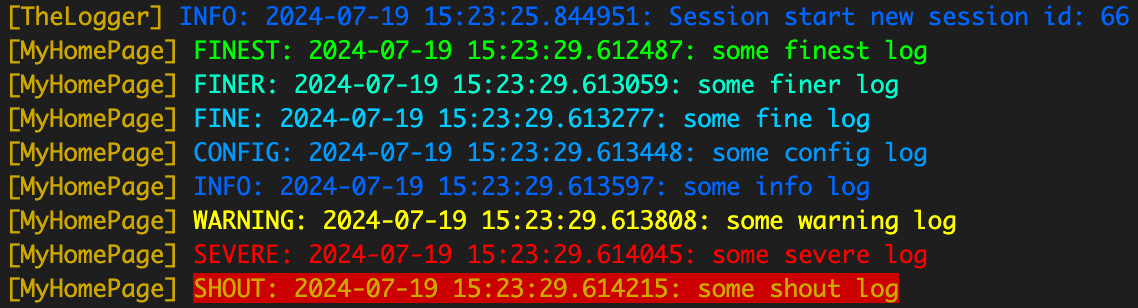
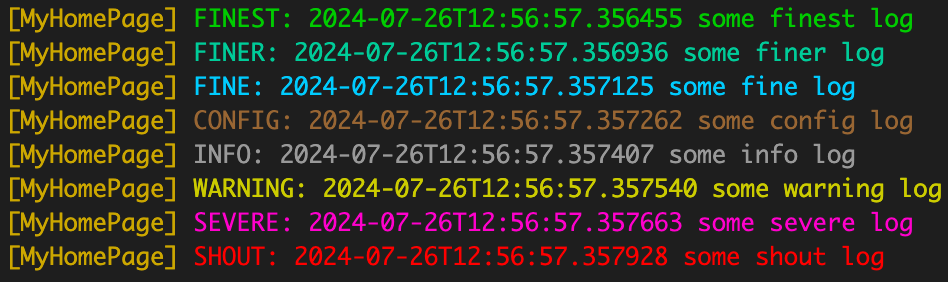
refactor: change console printer formatting (#18)
* refactor: change console printer formatting

* chore: bump version

* chore: change screenshot

diff --git a/test/console_logger_test.dart b/test/console_logger_test.dart
@@ -24,8 +24,9 @@ void main() {
   test('TheLogger console tests', () async {
     final logs = <Map<String, dynamic>>[];
 
-    void consoleLoggerCallback(
-      String message, {
+    void consoleLoggerCallback({
+      required String formattedRecord,
+      required String message,
       DateTime? time,
       int? sequenceNumber,
       int level = 0,
@@ -34,9 +35,9 @@ void main() {
       Object? error,
       StackTrace? stackTrace,
     }) {
-      if (!message.contains('hot-reload')) {
+      if (!formattedRecord.contains('hot-reload')) {
         logs.add({
-          'message': message,
+          'formattedRecord': formattedRecord,
           'level': level,
           'name': name,
         });
@@ -63,54 +64,54 @@ void main() {
 
     expect(logs, hasLength(9));
 
-    expect(logs[0]['message'], contains('Session start'));
+    expect(logs[0]['formattedRecord'], contains('Session start'));
     expect(logs[0]['name'], contains('TheLogger'));
 
-    expect(logs[1]['message'], contains(ConsoleColor.green0.value));
-    expect(logs[1]['message'], contains('some finest log'));
-    expect(logs[1]['message'], contains(ConsoleColor.reset.value));
+    expect(logs[1]['formattedRecord'], contains(ConsoleColor.green0.value));
+    expect(logs[1]['formattedRecord'], contains('some finest log'));
+    expect(logs[1]['formattedRecord'], contains(ConsoleColor.reset.value));
     expect(logs[1]['name'], contains('TestLogger'));
     expect(logs[1]['level'], Level.FINEST.value);
 
-    expect(logs[2]['message'], contains(ConsoleColor.green1.value));
-    expect(logs[2]['message'], contains('some finer log'));
-    expect(logs[2]['message'], contains(ConsoleColor.reset.value));
+    expect(logs[2]['formattedRecord'], contains(ConsoleColor.green1.value));
+    expect(logs[2]['formattedRecord'], contains('some finer log'));
+    expect(logs[2]['formattedRecord'], contains(ConsoleColor.reset.value));
     expect(logs[2]['name'], contains('TestLogger'));
     expect(logs[2]['level'], Level.FINER.value);
 
-    expect(logs[3]['message'], contains(ConsoleColor.green2.value));
-    expect(logs[3]['message'], contains('some fine log'));
-    expect(logs[3]['message'], contains(ConsoleColor.reset.value));
+    expect(logs[3]['formattedRecord'], contains(ConsoleColor.green2.value));
+    expect(logs[3]['formattedRecord'], contains('some fine log'));
+    expect(logs[3]['formattedRecord'], contains(ConsoleColor.reset.value));
     expect(logs[3]['name'], contains('TestLogger'));
     expect(logs[3]['level'], Level.FINE.value);
 
-    expect(logs[4]['message'], contains(ConsoleColor.blue0.value));
-    expect(logs[4]['message'], contains('some config log'));
-    expect(logs[4]['message'], contains(ConsoleColor.reset.value));
+    expect(logs[4]['formattedRecord'], contains(ConsoleColor.blue0.value));
+    expect(logs[4]['formattedRecord'], contains('some config log'));
+    expect(logs[4]['formattedRecord'], contains(ConsoleColor.reset.value));
     expect(logs[4]['name'], contains('TestLogger'));
     expect(logs[4]['level'], Level.CONFIG.value);
 
-    expect(logs[5]['message'], contains(ConsoleColor.blue1.value));
-    expect(logs[5]['message'], contains('some info log'));
-    expect(logs[5]['message'], contains(ConsoleColor.reset.value));
+    expect(logs[5]['formattedRecord'], contains(ConsoleColor.blue1.value));
+    expect(logs[5]['formattedRecord'], contains('some info log'));
+    expect(logs[5]['formattedRecord'], contains(ConsoleColor.reset.value));
     expect(logs[5]['name'], contains('TestLogger'));
     expect(logs[5]['level'], Level.INFO.value);
 
-    expect(logs[6]['message'], contains(ConsoleColor.yellow0.value));
-    expect(logs[6]['message'], contains('some warning log'));
-    expect(logs[6]['message'], contains(ConsoleColor.reset.value));
+    expect(logs[6]['formattedRecord'], contains(ConsoleColor.yellow0.value));
+    expect(logs[6]['formattedRecord'], contains('some warning log'));
+    expect(logs[6]['formattedRecord'], contains(ConsoleColor.reset.value));
     expect(logs[6]['name'], contains('TestLogger'));
     expect(logs[6]['level'], Level.WARNING.value);
 
-    expect(logs[7]['message'], contains(ConsoleColor.red0.value));
-    expect(logs[7]['message'], contains('some severe log'));
-    expect(logs[7]['message'], contains(ConsoleColor.reset.value));
+    expect(logs[7]['formattedRecord'], contains(ConsoleColor.red0.value));
+    expect(logs[7]['formattedRecord'], contains('some severe log'));
+    expect(logs[7]['formattedRecord'], contains(ConsoleColor.reset.value));
     expect(logs[7]['name'], contains('TestLogger'));
     expect(logs[7]['level'], Level.SEVERE.value);
 
-    expect(logs[8]['message'], contains(ConsoleColor.redInverse.value));
-    expect(logs[8]['message'], contains('some shout log'));
-    expect(logs[8]['message'], contains(ConsoleColor.reset.value));
+    expect(logs[8]['formattedRecord'], contains(ConsoleColor.red1.value));
+    expect(logs[8]['formattedRecord'], contains('some shout log'));
+    expect(logs[8]['formattedRecord'], contains(ConsoleColor.reset.value));
     expect(logs[8]['name'], contains('TestLogger'));
     expect(logs[8]['level'], Level.SHOUT.value);
   });
@@ -118,8 +119,9 @@ void main() {
   test('TheLogger console startSession extra string test', () async {
     final logs = <Map<String, dynamic>>[];
 
-    void consoleLoggerCallback(
-      String message, {
+    void consoleLoggerCallback({
+      required String formattedRecord,
+      required String message,
       DateTime? time,
       int? sequenceNumber,
       int level = 0,
@@ -128,9 +130,9 @@ void main() {
       Object? error,
       StackTrace? stackTrace,
     }) {
-      if (!message.contains('hot-reload')) {
+      if (!formattedRecord.contains('hot-reload')) {
         logs.add({
-          'message': message,
+          'formattedRecord': formattedRecord,
           'level': level,
           'name': name,
         });
@@ -148,16 +150,17 @@ void main() {
 
     expect(logs, hasLength(1));
 
-    expect(logs[0]['message'], contains('Session start'));
-    expect(logs[0]['message'], contains('extra string'));
+    expect(logs[0]['formattedRecord'], contains('Session start'));
+    expect(logs[0]['formattedRecord'], contains('extra string'));
     expect(logs[0]['name'], contains('TheLogger'));
   });
 
   test('TheLogger console startSession stack trace test', () async {
     final logs = <Map<String, dynamic>>[];
 
-    void consoleLoggerCallback(
-      String message, {
+    void consoleLoggerCallback({
+      required String formattedRecord,
+      required String message,
       DateTime? time,
       int? sequenceNumber,
       int level = 0,
@@ -166,10 +169,10 @@ void main() {
       Object? error,
       StackTrace? stackTrace,
     }) {
-      if (!message.contains('hot-reload')) {
+      if (!formattedRecord.contains('hot-reload')) {
         logs.add(
           {
-            'message': message,
+            'formattedRecord': formattedRecord,
             'level': level,
             'name': name,
             'error': error,
@@ -195,7 +198,7 @@ void main() {
     }
 
     expect(logs, hasLength(2));
-    expect(logs[1]['message'], contains('some exception'));
+    expect(logs[1]['formattedRecord'], contains('some exception'));
     expect(logs[1]['error'], contains('some error'));
     expect(
       logs[1]['stackTrace'].toString(),

diff --git a/lib/src/console_logger.dart b/lib/src/console_logger.dart
@@ -14,26 +14,20 @@ class ConsoleLogger extends AbstractLogger {
 
   @override
   void write(MaskedLogRecord record) {
-    var trace = record.error?.toString();
-    trace = trace != null ? '\n$trace\n' : '';
-    final message = _colorMessage(
-      '${record.level.name}: ${record.time}: ${record.message}$trace',
-      record.level,
-    );
+    final formatted = _formatRecord(record);
 
     developer.log(
-      message,
+      formatted,
       time: record.time,
       sequenceNumber: record.sequenceNumber,
       level: record.level.value,
       name: record.loggerName,
       zone: record.zone,
-      error: record.error,
-      stackTrace: record.stackTrace,
     );
 
     _loggerCallback?.call(
-      message,
+      formattedRecord: formatted,
+      message: record.message,
       time: record.time,
       sequenceNumber: record.sequenceNumber,
       level: record.level.value,
@@ -41,6 +35,15 @@ class ConsoleLogger extends AbstractLogger {
       zone: record.zone,
       error: record.error,
       stackTrace: record.stackTrace,
+    );
+  }
+
+  String _formatRecord(MaskedLogRecord record) {
+    final error = record.error != null ? '\n${record.error}' : '';
+    final trace = record.stackTrace != null ? '\n${record.stackTrace}' : '';
+    return _colorMessage(
+      '''${record.level.name}: ${record.time.toIso8601String()} ${record.message}$error$trace''',
+      record.level,
     );
   }
 
@@ -59,13 +62,14 @@ class ConsoleLogger extends AbstractLogger {
     Level.INFO: ConsoleColor.blue1,
     Level.WARNING: ConsoleColor.yellow0,
     Level.SEVERE: ConsoleColor.red0,
-    Level.SHOUT: ConsoleColor.redInverse,
+    Level.SHOUT: ConsoleColor.red1,
   };
 }
 
 /// Console logger callback. Mostly for debugging and testing purpose.
-typedef ConsoleLoggerCallback = void Function(
-  String message, {
+typedef ConsoleLoggerCallback = void Function({
+  required String formattedRecord,
+  required String message,
   DateTime? time,
   int? sequenceNumber,
   int level,

diff --git a/example/lib/main.dart b/example/lib/main.dart
@@ -77,13 +77,32 @@ class MyHomePage extends StatelessWidget {
       ..shout('some shout log');
   }
 
+  void emulateError() {
+    try {
+      throw Exception('Some error');
+    } catch (e, s) {
+      _log
+        ..severe('Some severe error', e, s)
+        ..shout('some shout error', e, s);
+    }
+  }
+
   @override
   Widget build(BuildContext context) {
     return Scaffold(
       body: Center(
-        child: ElevatedButton(
-          onPressed: printLogs,
-          child: const Text('Press me'),
+        child: Column(
+          mainAxisSize: MainAxisSize.min,
+          children: [
+            ElevatedButton(
+              onPressed: printLogs,
+              child: const Text('Press me'),
+            ),
+            ElevatedButton(
+              onPressed: emulateError,
+              child: const Text('Emulate error'),
+            ),
+          ],
         ),
       ),
     );

diff --git a/lib/src/models/console_color.dart b/lib/src/models/console_color.dart
@@ -15,14 +15,14 @@ enum ConsoleColor {
   cyan('\x1B[36m'),
 
   /// 256 colors
-  red0('\x1B[38;5;196m'),
-  redInverse('\x1B[48;5;160m'),
-  green0('\x1B[38;5;46m'),
-  green1('\x1B[38;5;50m'),
+  red0('\x1B[38;5;200m'),
+  red1('\x1B[38;5;196m'),
+  green0('\x1B[38;5;40m'),
+  green1('\x1B[38;5;43m'),
   green2('\x1B[38;5;45m'),
-  yellow0('\x1B[38;5;226m'),
-  blue0('\x1B[38;5;39m'),
-  blue1('\x1B[38;5;33m');
+  yellow0('\x1B[38;5;184m'),
+  blue0('\x1B[38;5;137m'),
+  blue1('\x1B[38;5;145m');
 
   const ConsoleColor(this.value);
   final String value;

diff --git a/CHANGELOG.md b/CHANGELOG.md
@@ -1,3 +1,8 @@
+## 0.0.12
+
+* Change console printer formatting
+* Change console printer colors
+
 ## 0.0.11
 
 * Add ability to mask sensitive data
